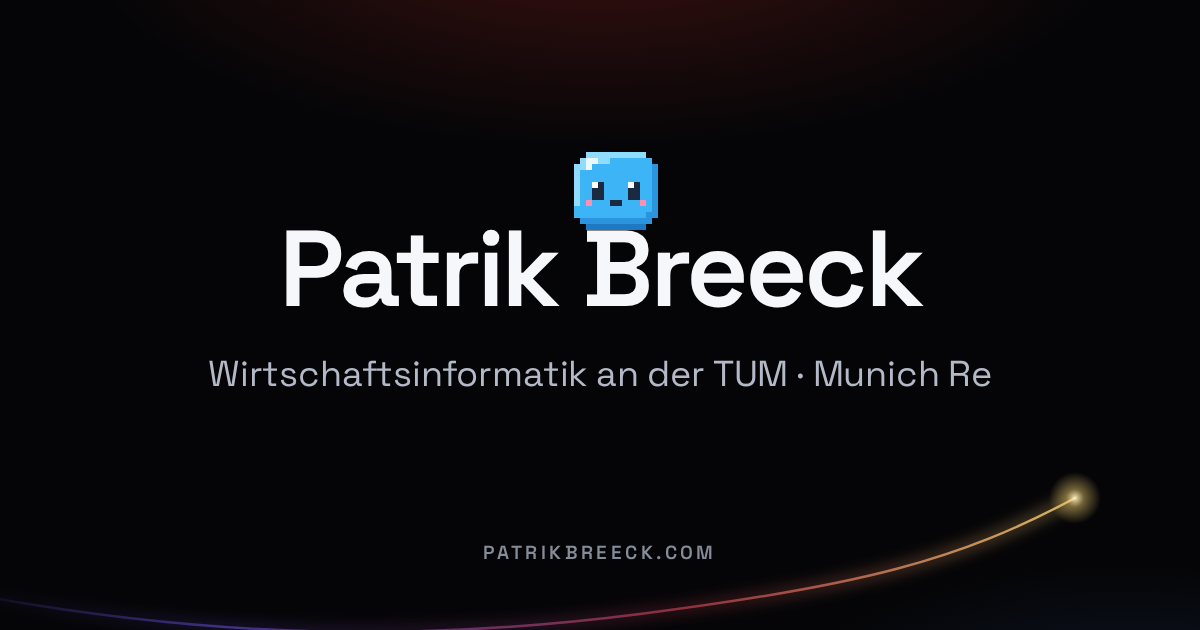
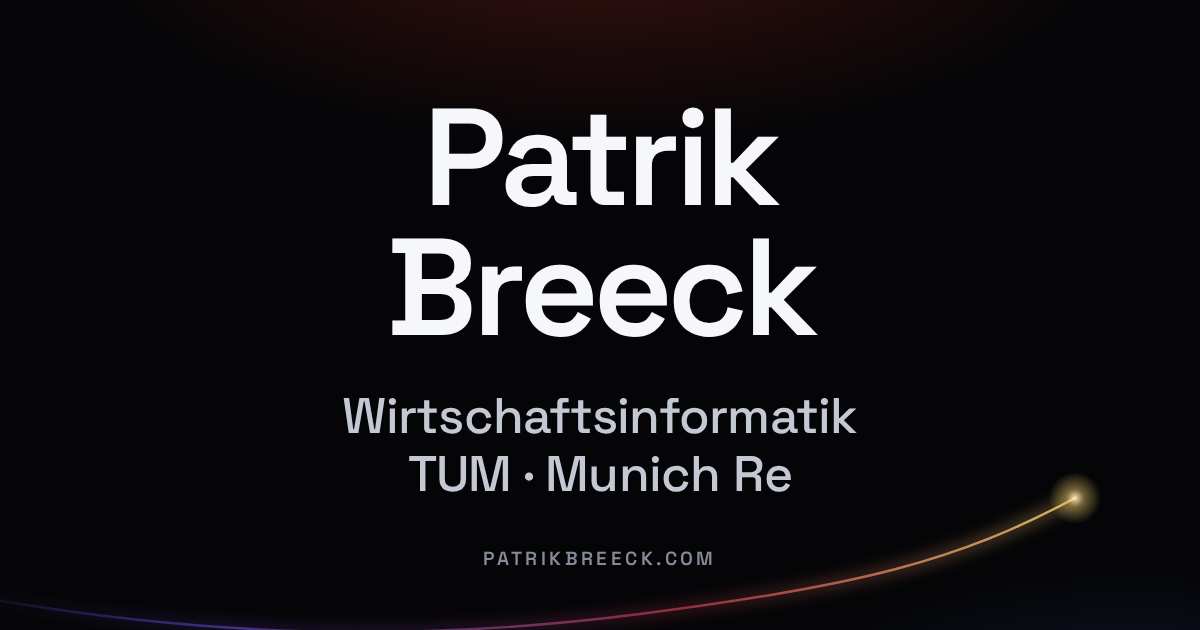
Link preview card without Bit, square-safe; Arestemis: searches for flats, items, deals and page changes
The card (Patrik's pick: without Bit) puts the name on two lines and two short lines under it (meta.cardLine1,
cardLine2), all inside the middle square, so small square previews show them whole and larger; the tool stops
when a line grows too wide. Arestemis is no longer only flat finding (Patrik, 2 November 2026): "Searches on
autopilot." / "Suchen auf Autopilot.", flats, items for sale and deals from WG-Gesucht to eBay and Vinted, page
watches, the AI check; the home page's project line says "automated searches".

Claude-Session: https://claude.ai/code/session_015K3EggJPEnNwRau2v6xmQe

diff --git a/tools/og/card.html b/tools/og/card.html
@@ -1,8 +1,8 @@
 <!doctype html>
-<!-- The link preview picture (tools/og-card.mjs fills the {{placeholders}} and takes the picture): 1200×630, the site's
-     dark look (site.css: its wall, its red light from the top and blue from the bottom right, the line of light in its
-     colours), the name and the short line centred so a square crop (WhatsApp) keeps them, and Bit standing on the name
-     as the companions stand on it on the site, drawn by the companions' own code. -->
+<!-- The link preview picture (tools/og-card.mjs fills the {{placeholders}} and takes the picture): 1200×630 in the
+     site's dark look (site.css: its wall, its red light from the top and blue from the bottom right, the line of light
+     in its colours). The name on two lines and the short lines under it stay inside the middle square (630×630), so a
+     small square preview (WhatsApp and others crop the middle) still shows all of it, as large as fits. -->
 <html lang="{{lang}}">
 <head>
 <meta charset="utf-8">
@@ -25,18 +25,19 @@
   svg.flow { position: absolute; inset: 0; }
   .card {
     position: absolute; inset: 0; display: flex; flex-direction: column; align-items: center; justify-content: center;
-    padding-bottom: 18px; text-align: center;
+    padding-bottom: 34px; text-align: center;
   }
-  h1 { margin: 0; font-size: 108px; font-weight: 600; letter-spacing: -0.035em; line-height: 1; }
-  .line { margin: 28px 0 0; font-size: 36px; font-weight: 400; color: #b3b9c6; letter-spacing: -0.005em; }
+  h1 { margin: 0; font-size: 138px; font-weight: 600; letter-spacing: -0.04em; line-height: 0.94; }
+  h1 span { display: block; }
+  .lines { margin: 34px 0 0; font-size: 50px; font-weight: 500; line-height: 1.16; color: #c3c8d3; letter-spacing: -0.015em; }
+  .lines span { display: block; }
   .domain {
-    position: absolute; left: 0; right: 0; bottom: 46px; text-align: center;
+    position: absolute; left: 0; right: 0; bottom: 40px; text-align: center;
     font-size: 19px; font-weight: 600; letter-spacing: 0.18em; text-transform: uppercase; color: #848b99;
   }
-  canvas.bit { position: absolute; image-rendering: pixelated; }
 </style>
 </head>
-<body data-bit="{{bit}}">
+<body>
   <svg class="flow" viewBox="0 0 1200 630" aria-hidden="true">
     <defs>
       <linearGradient id="flow" x1="0" y1="0" x2="1" y2="0">
@@ -52,56 +53,17 @@
         <stop offset="1" stop-color="#e9c86b" stop-opacity="0"/>
       </radialGradient>
     </defs>
-    <path d="M -60 588 C 200 640, 420 642, 640 614 S 960 560, 1075 498" fill="none" stroke="url(#flow)" stroke-width="12" opacity="0.35" filter="url(#soft)"/>
-    <path d="M -60 588 C 200 640, 420 642, 640 614 S 960 560, 1075 498" fill="none" stroke="url(#flow)" stroke-width="2.4" stroke-linecap="round"/>
+    <path d="M -60 590 C 200 640, 420 642, 640 614 S 960 560, 1075 498" fill="none" stroke="url(#flow)" stroke-width="12" opacity="0.35" filter="url(#soft)"/>
+    <path d="M -60 590 C 200 640, 420 642, 640 614 S 960 560, 1075 498" fill="none" stroke="url(#flow)" stroke-width="2.4" stroke-linecap="round"/>
     <circle cx="1075" cy="498" r="26" fill="url(#head)"/>
   </svg>
   <main class="card">
-    <h1 id="name">{{name}}</h1>
-    <p class="line">{{line}}</p>
+    <h1>{{nameLines}}</h1>
+    <p class="lines">{{lines}}</p>
   </main>
   <p class="domain">{{domain}}</p>
-  <script src="/companions/companions.min.js" data-autostart="false" data-settings-button="false"></script>
   <script>
-    // Bit on the name, standing on the capital of its last word (the B of Breeck): its feet on the top of the
-    // capitals, as companions stand on a heading on the site. Drawn with the companions' own portrait (whole pixels),
-    // then placed by where its feet are.
-    async function bit() {
-      if (document.body.dataset.bit !== 'yes') return;
-      const C = window.Companions;
-      await C.start({ companions: ['bit'] });
-      C.setOptions({ motion: 'hidden' });
-      const canvas = document.createElement('canvas');
-      canvas.className = 'bit';
-      canvas.width = canvas.height = 120;
-      C.drawPortrait(canvas, 'bit');
-      const px = canvas.getContext('2d').getImageData(0, 0, canvas.width, canvas.height).data;
-      let feet = 0;
-      for (let y = canvas.height - 1; y >= 0 && !feet; y--) {
-        for (let x = 0; x < canvas.width; x++) if (px[(y * canvas.width + x) * 4 + 3] > 0) { feet = y + 1; break; }
-      }
-      const name = document.getElementById('name');
-      // The top of the capitals: the line box's baseline minus the font's cap height.
-      const probe = document.createElement('span');
-      probe.style.display = 'inline-block';
-      probe.style.height = '0';
-      name.append(probe);
-      const baseline = probe.getBoundingClientRect().top;
-      probe.remove();
-      const measure = document.createElement('canvas').getContext('2d');
-      measure.font = getComputedStyle(name).font;
-      const capTop = baseline - measure.measureText('H').actualBoundingBoxAscent;
-      const text = name.firstChild, at = text.data.lastIndexOf(' ') + 1, letter = document.createRange();
-      letter.setStart(text, at);
-      letter.setEnd(text, at + 1);
-      const cap = letter.getBoundingClientRect();
-      canvas.style.left = `${Math.round(cap.left + cap.width / 2 - canvas.width / 2)}px`;
-      canvas.style.top = `${Math.round(capTop - feet)}px`;
-      document.body.append(canvas);
-    }
-    document.fonts.ready.then(bit).then(
-      () => { document.body.dataset.ready = 'yes'; },
-      e => { console.error('card:', e); document.body.dataset.ready = 'failed'; });
+    document.fonts.ready.then(() => { document.body.dataset.ready = 'yes'; });
   </script>
 </body>
 </html>

diff --git a/README.md b/README.md
@@ -27,7 +27,7 @@ languages.
 | `deploy.sh` | Builds and swaps the result into `/srv/ares`, which Caddy serves. |
 | `tools/serve.py` | Serves `dist/` locally with the Content-Security-Policy the server sends. |
 | `tools/shoot.mjs` | Screenshots of pages (desktop and phone, in every look), for checking a change without a screen. |
-| `tools/og-card.mjs`, `tools/og/card.html` | The link preview pictures (`static/img/og/card.<lang>.png`, 1200×630), drawn from the owner file's name, `home.short` and the domain, with Bit by the companions' own code. Run it with a build served (`tools/serve.py`) when the name or the line changes. |
+| `tools/og-card.mjs`, `tools/og/card.html` | The link preview pictures (`static/img/og/card.<lang>.png`, 1200×630): the owner file's name on two lines, `meta.cardLine1` and `cardLine2`, the domain, all inside the middle square so small square previews show them whole (the tool stops when a line is too wide). Run it with a build served (`tools/serve.py`) when the name or the lines change. |
 | `tools/import-showcase.py` | Copies the app pictures `content/apps.json` names from `empire-ios/showcase/`, sized for the web (needs Pillow). |
 
 Pages: `/en/`, `/en/apps/`, `/en/imprint/`, `/en/privacy/` and `/de/`, `/de/apps/`, `/de/impressum/`,
